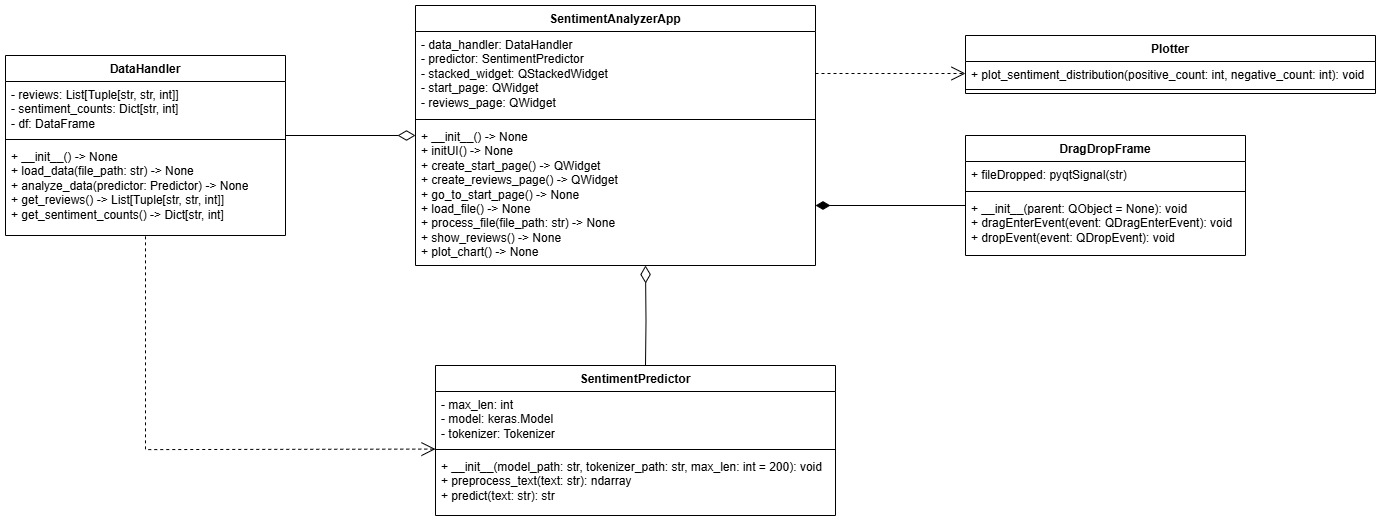
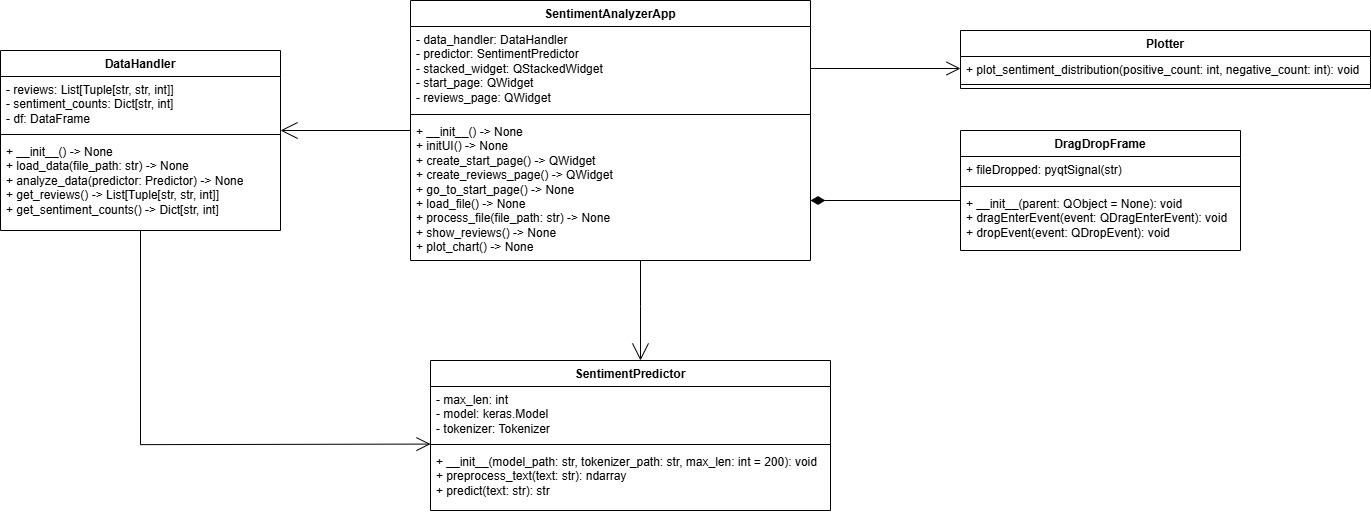
изменил диаграммы

diff --git a/scripts/app.py b/scripts/app.py
@@ -52,7 +52,7 @@ class SentimentAnalyzerApp(QMainWindow):
         
         description_label = QLabel(self)
         description_label.setText("Добро пожаловать в REVIZER!\n"
-                          "Приложение предназначено для анализа и визуализации отзывов товаров с Wildberries.\n"
+                          "Приложение предназначено для анализа и визуализации отзывов товаров с маркетплейсов.\n"
                           "Загружайте отзывы, определяйте их тональность и создавайте наглядные диаграммы со статистикой!\n")
         description_label.setAlignment(Qt.AlignCenter)
         description_label.setStyleSheet("font-weight: bold; font-size: 16px; color: #505050; text-align: center; margin-bottom: 100px;")
